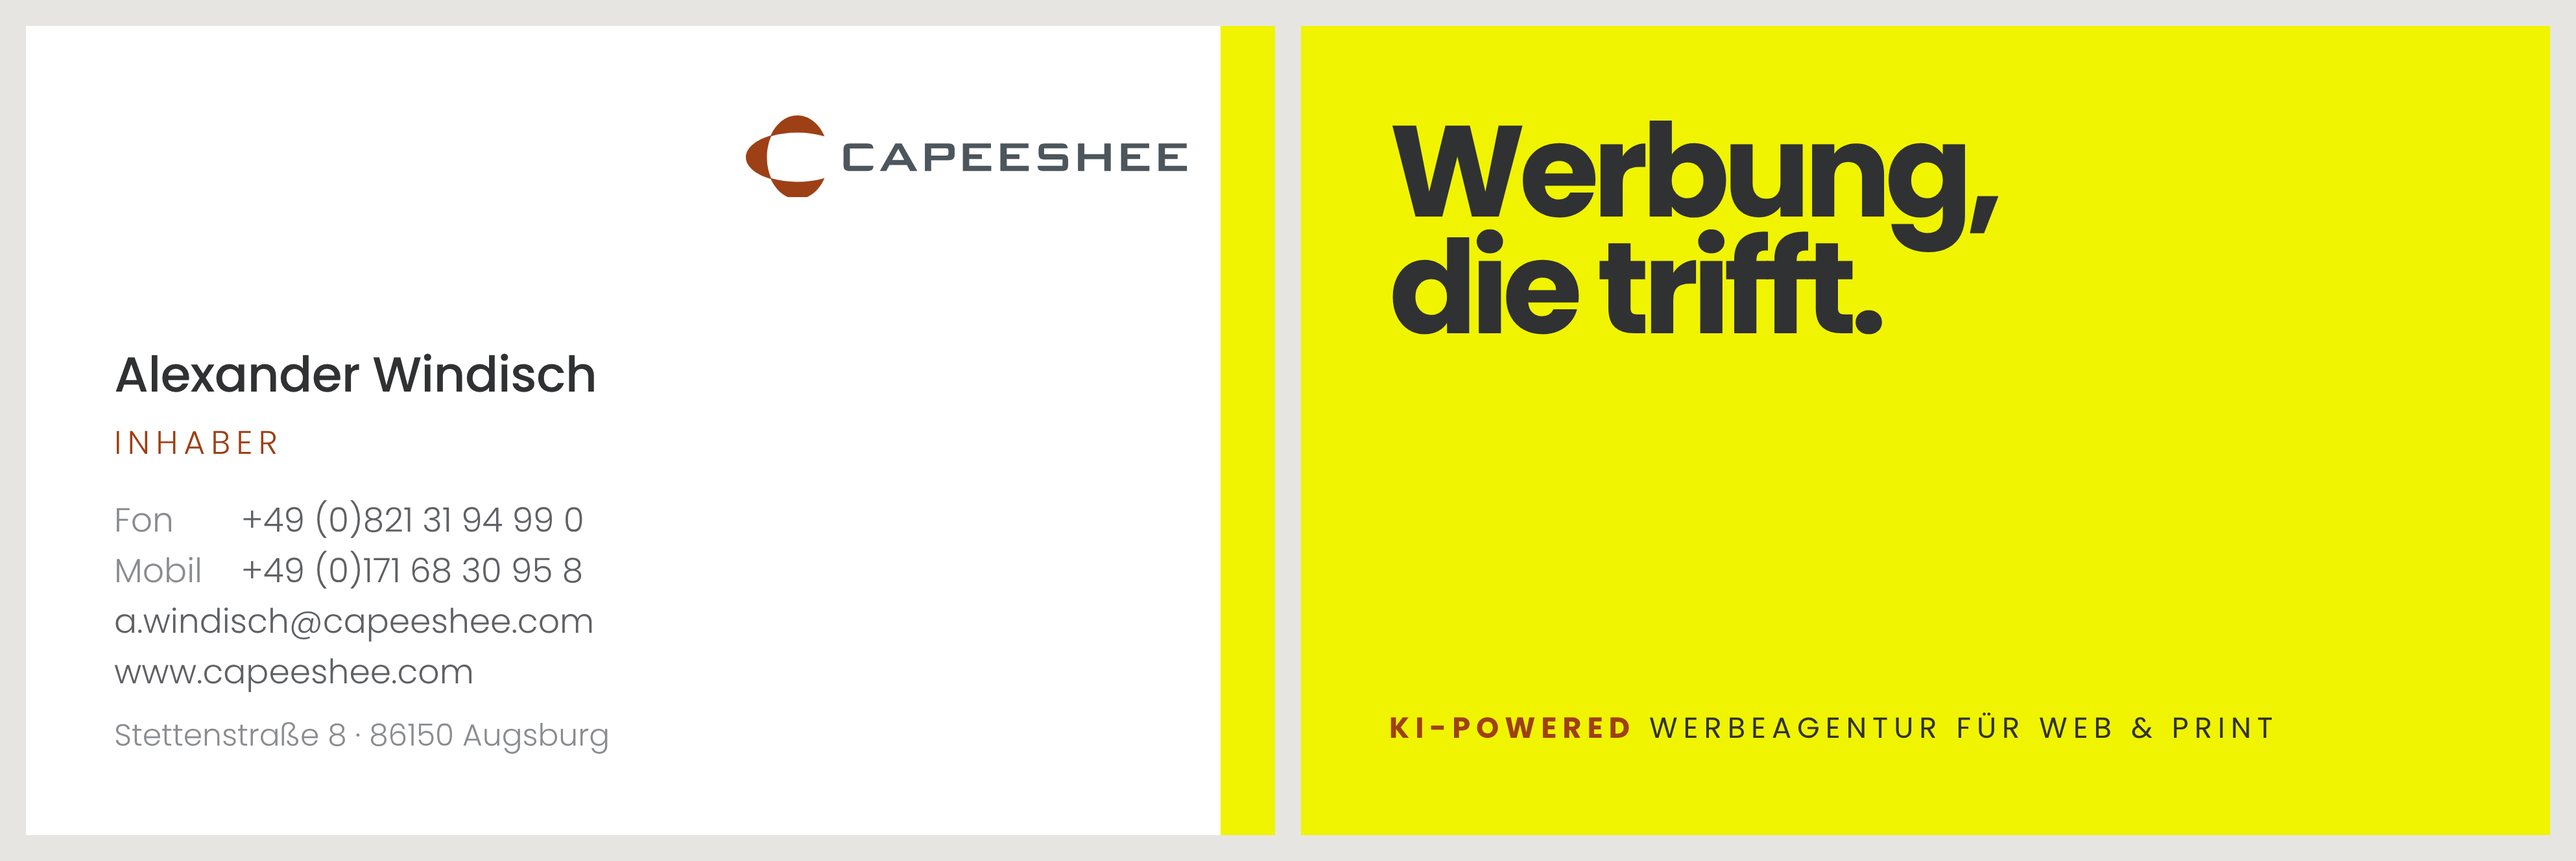
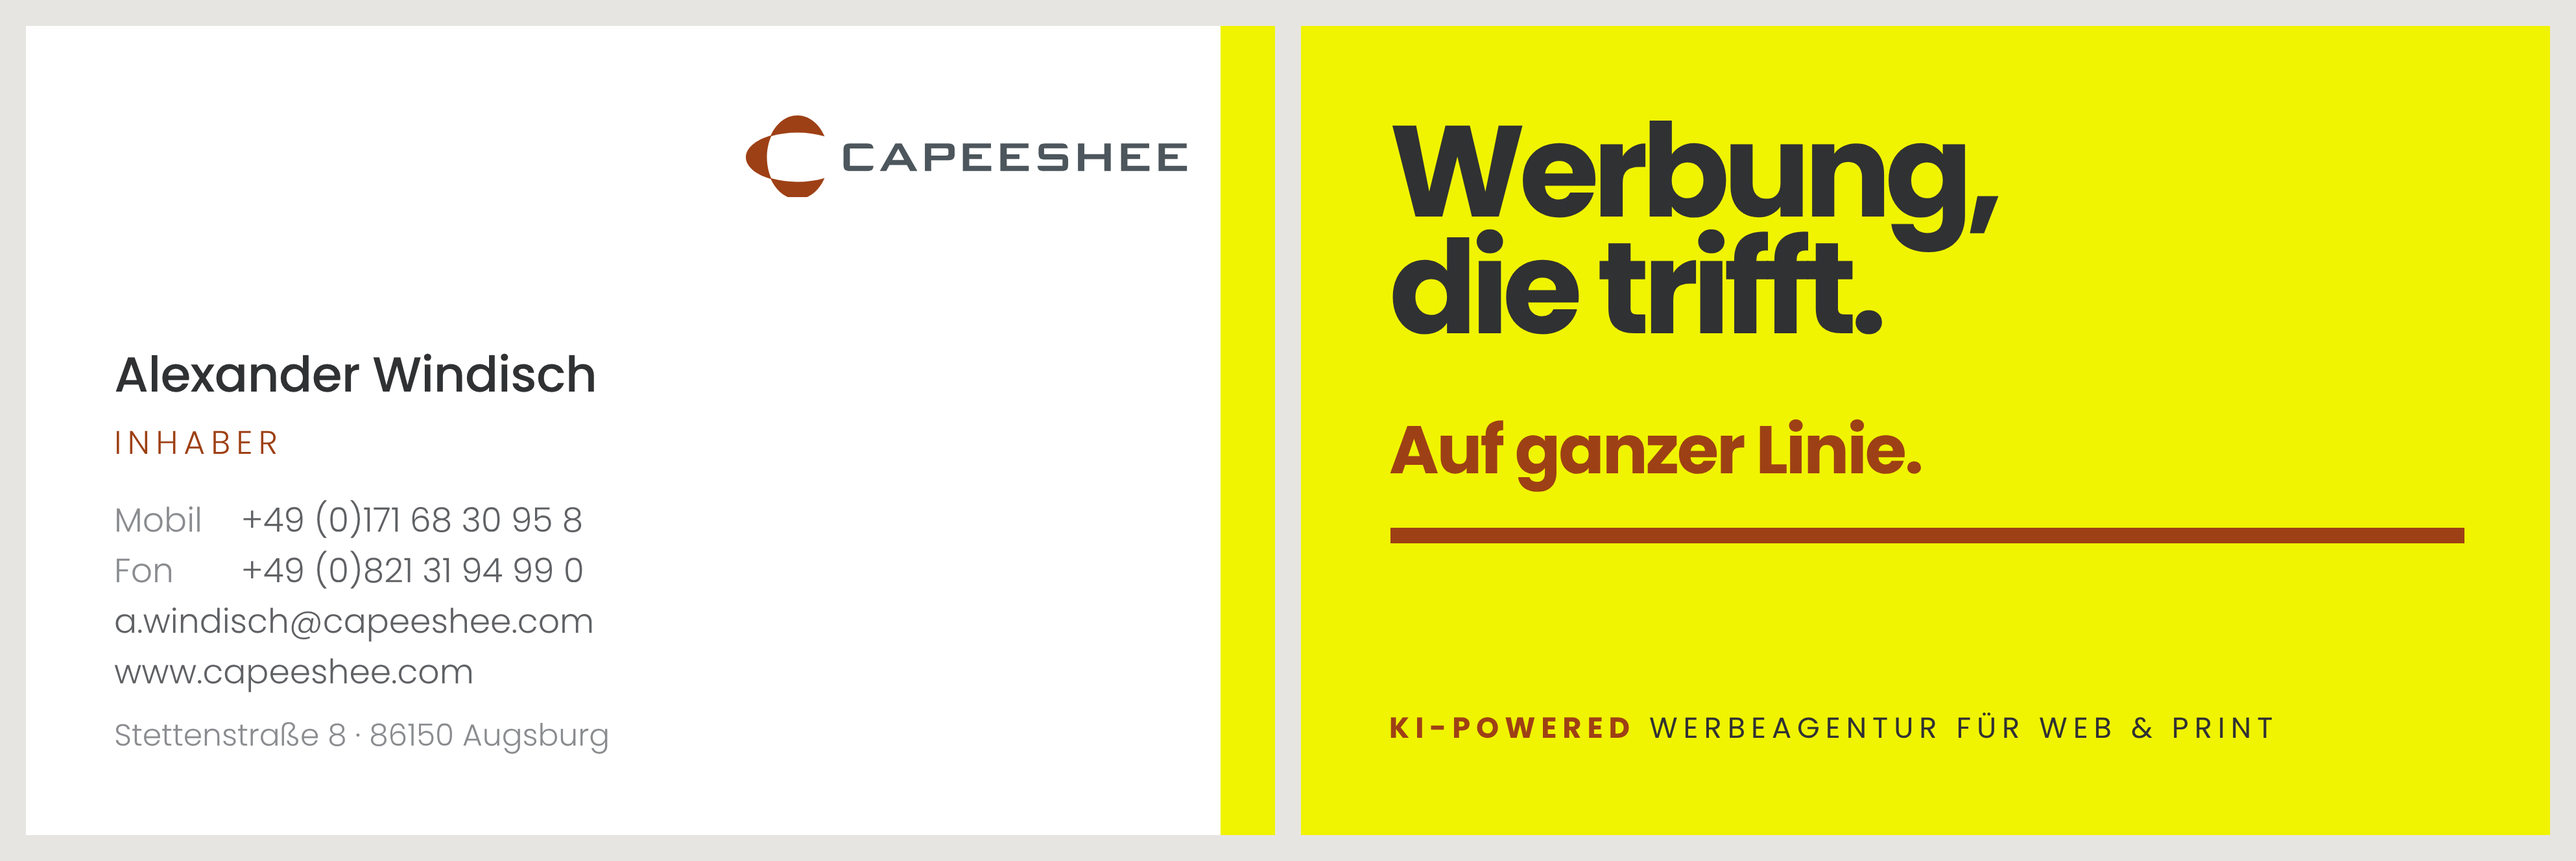
Visitenkarte: Mobil vor Festnetz, Rückseite mit Auf ganzer Linie
Claude-Session: https://claude.ai/code/session_01BjkEN2Gdq6Ygi9Db6ym7yL

diff --git a/ci/quellen/vk-hinten-druck.html b/ci/quellen/vk-hinten-druck.html
@@ -10,4 +10,4 @@
 .big{position:absolute;left:6mm;top:6mm;margin:0;font-weight:800;font-size:25pt;line-height:.92;letter-spacing:-.05em;color:#303133}
 .sub{position:absolute;left:6mm;bottom:5.5mm;margin:0;font-size:5.6pt;letter-spacing:.2em;text-transform:uppercase;color:#303133}.sub b{color:#9e4015;font-weight:700}
 .cut{position:absolute;left:3mm;top:3mm;width:85mm;height:55mm;outline:.1mm dashed #f0f;display:none}
-</style></head><body class="h"><div class="bg y"></div><div class="c"><p class="big">Werbung,<br>die trifft.</p><p class="sub"><b>KI-powered</b> Werbeagentur für Web &amp; Print</p></div></body></html>
+.sc{position:absolute;left:6mm;top:27mm;margin:0;font-weight:800;font-size:13pt;line-height:1;letter-spacing:-.03em;color:#9e4015}.gl{position:absolute;left:6mm;right:6mm;top:34mm;height:1.2mm;background:#9e4015}</style></head><body class="h"><div class="bg y"></div><div class="c"><p class="big">Werbung,<br>die trifft.</p><p class="sc">Auf ganzer Linie.</p><span class="gl"></span><p class="sub"><b>KI-powered</b> Werbeagentur für Web &amp; Print</p></div></body></html>

diff --git a/ci/quellen/vk-hinten.html b/ci/quellen/vk-hinten.html
@@ -10,4 +10,4 @@
 .big{position:absolute;left:6mm;top:6mm;margin:0;font-weight:800;font-size:25pt;line-height:.92;letter-spacing:-.05em;color:#303133}
 .sub{position:absolute;left:6mm;bottom:5.5mm;margin:0;font-size:5.6pt;letter-spacing:.2em;text-transform:uppercase;color:#303133}.sub b{color:#9e4015;font-weight:700}
 .cut{position:absolute;left:0mm;top:0mm;width:85mm;height:55mm;outline:.1mm dashed #f0f;display:none}
-</style></head><body class="h"><div class="bg y"></div><div class="c"><p class="big">Werbung,<br>die trifft.</p><p class="sub"><b>KI-powered</b> Werbeagentur für Web &amp; Print</p></div></body></html>
+.sc{position:absolute;left:6mm;top:27mm;margin:0;font-weight:800;font-size:13pt;line-height:1;letter-spacing:-.03em;color:#9e4015}.gl{position:absolute;left:6mm;right:6mm;top:34mm;height:1.2mm;background:#9e4015}</style></head><body class="h"><div class="bg y"></div><div class="c"><p class="big">Werbung,<br>die trifft.</p><p class="sc">Auf ganzer Linie.</p><span class="gl"></span><p class="sub"><b>KI-powered</b> Werbeagentur für Web &amp; Print</p></div></body></html>

diff --git a/ci/quellen/vk-vorne-druck.html b/ci/quellen/vk-vorne-druck.html
@@ -28,4 +28,4 @@
   <path fill="none" d="M170.55,51.46"/>
   <polyline fill="none" points="263.96 50.25 265.41 50.68 264.79 49.3"/>
 </svg></div><div class="ct"><p class="nm">Alexander Windisch</p><p class="fn">Inhaber</p>
-<p class="kt"><span>Fon</span> +49 (0)821 31 94 99 0<br><span>Mobil</span> +49 (0)171 68 30 95 8<br>a.windisch@capeeshee.com<br>www.capeeshee.com</p><p class="ad">Stettenstraße 8 · 86150 Augsburg</p></div></div></body></html>
+<p class="kt"><span>Mobil</span> +49 (0)171 68 30 95 8<br><span>Fon</span> +49 (0)821 31 94 99 0<br>a.windisch@capeeshee.com<br>www.capeeshee.com</p><p class="ad">Stettenstraße 8 · 86150 Augsburg</p></div></div></body></html>

diff --git a/ci/quellen/vk-vorne.html b/ci/quellen/vk-vorne.html
@@ -28,4 +28,4 @@
   <path fill="none" d="M170.55,51.46"/>
   <polyline fill="none" points="263.96 50.25 265.41 50.68 264.79 49.3"/>
 </svg></div><div class="ct"><p class="nm">Alexander Windisch</p><p class="fn">Inhaber</p>
-<p class="kt"><span>Fon</span> +49 (0)821 31 94 99 0<br><span>Mobil</span> +49 (0)171 68 30 95 8<br>a.windisch@capeeshee.com<br>www.capeeshee.com</p><p class="ad">Stettenstraße 8 · 86150 Augsburg</p></div></div></body></html>
+<p class="kt"><span>Mobil</span> +49 (0)171 68 30 95 8<br><span>Fon</span> +49 (0)821 31 94 99 0<br>a.windisch@capeeshee.com<br>www.capeeshee.com</p><p class="ad">Stettenstraße 8 · 86150 Augsburg</p></div></div></body></html>
